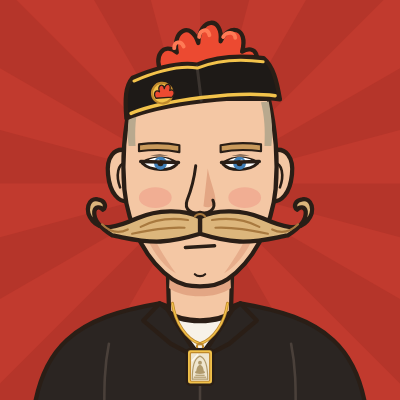
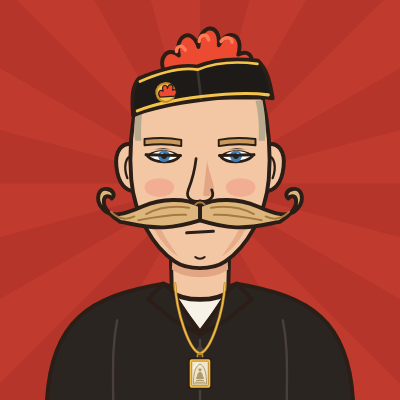
The somdej hangs lower on the chest
Chain lengthened so the pendant sits well down the shirt front; the
figure goes to 1.00 and rises to keep it and the comb in the round
crop.

Claude-Session: https://claude.ai/code/session_01JFezkyuZkike4PLAT6MXEq

diff --git a/make_cast.py b/make_cast.py
@@ -68,9 +68,9 @@ LENS = "#3a2f28"
 
 # where the avatar hangs the character: raised and eased back so the amulet
 # on his chest stays inside the round crop and the comb still clears the top
-CHAR_Y, CHAR_S = 440, 1.10
+CHAR_Y, CHAR_S = 420, 1.00
 
-HANG, HANG_S = 900, .9  # the amulet's bail, in character units, and its size
+HANG, HANG_S = 985, .85  # the amulet's bail, in character units, and its size
 
 W = 10  # the one line weight; the bug scales it, nothing else changes it
 
@@ -134,10 +134,10 @@ def shoulders():
 
 def amulet():
     """พระสมเด็จ on a gold chain: a powder tablet in a gold case, the seated
-    Buddha under the bell arch on a three-tier base. On the chest, at the
-    length a crucifix hangs; it sits inside the round crop (tests/test_cast.py)."""
-    # hangs to the breastbone, the length a crucifix is worn at
-    chain = f'M448 806 C454 850 480 {HANG - 10} 512 {HANG}'
+    Buddha under the bell arch on a three-tier base. Low on the chest, on a
+    long chain; it sits inside the round crop (tests/test_cast.py)."""
+    # hangs low on the chest, below where a crucifix is worn
+    chain = f'M448 806 C452 880 484 {HANG - 8} 512 {HANG}'
     tablet = "#efe6cf"
     relief = "#b09a6c"
     return (
